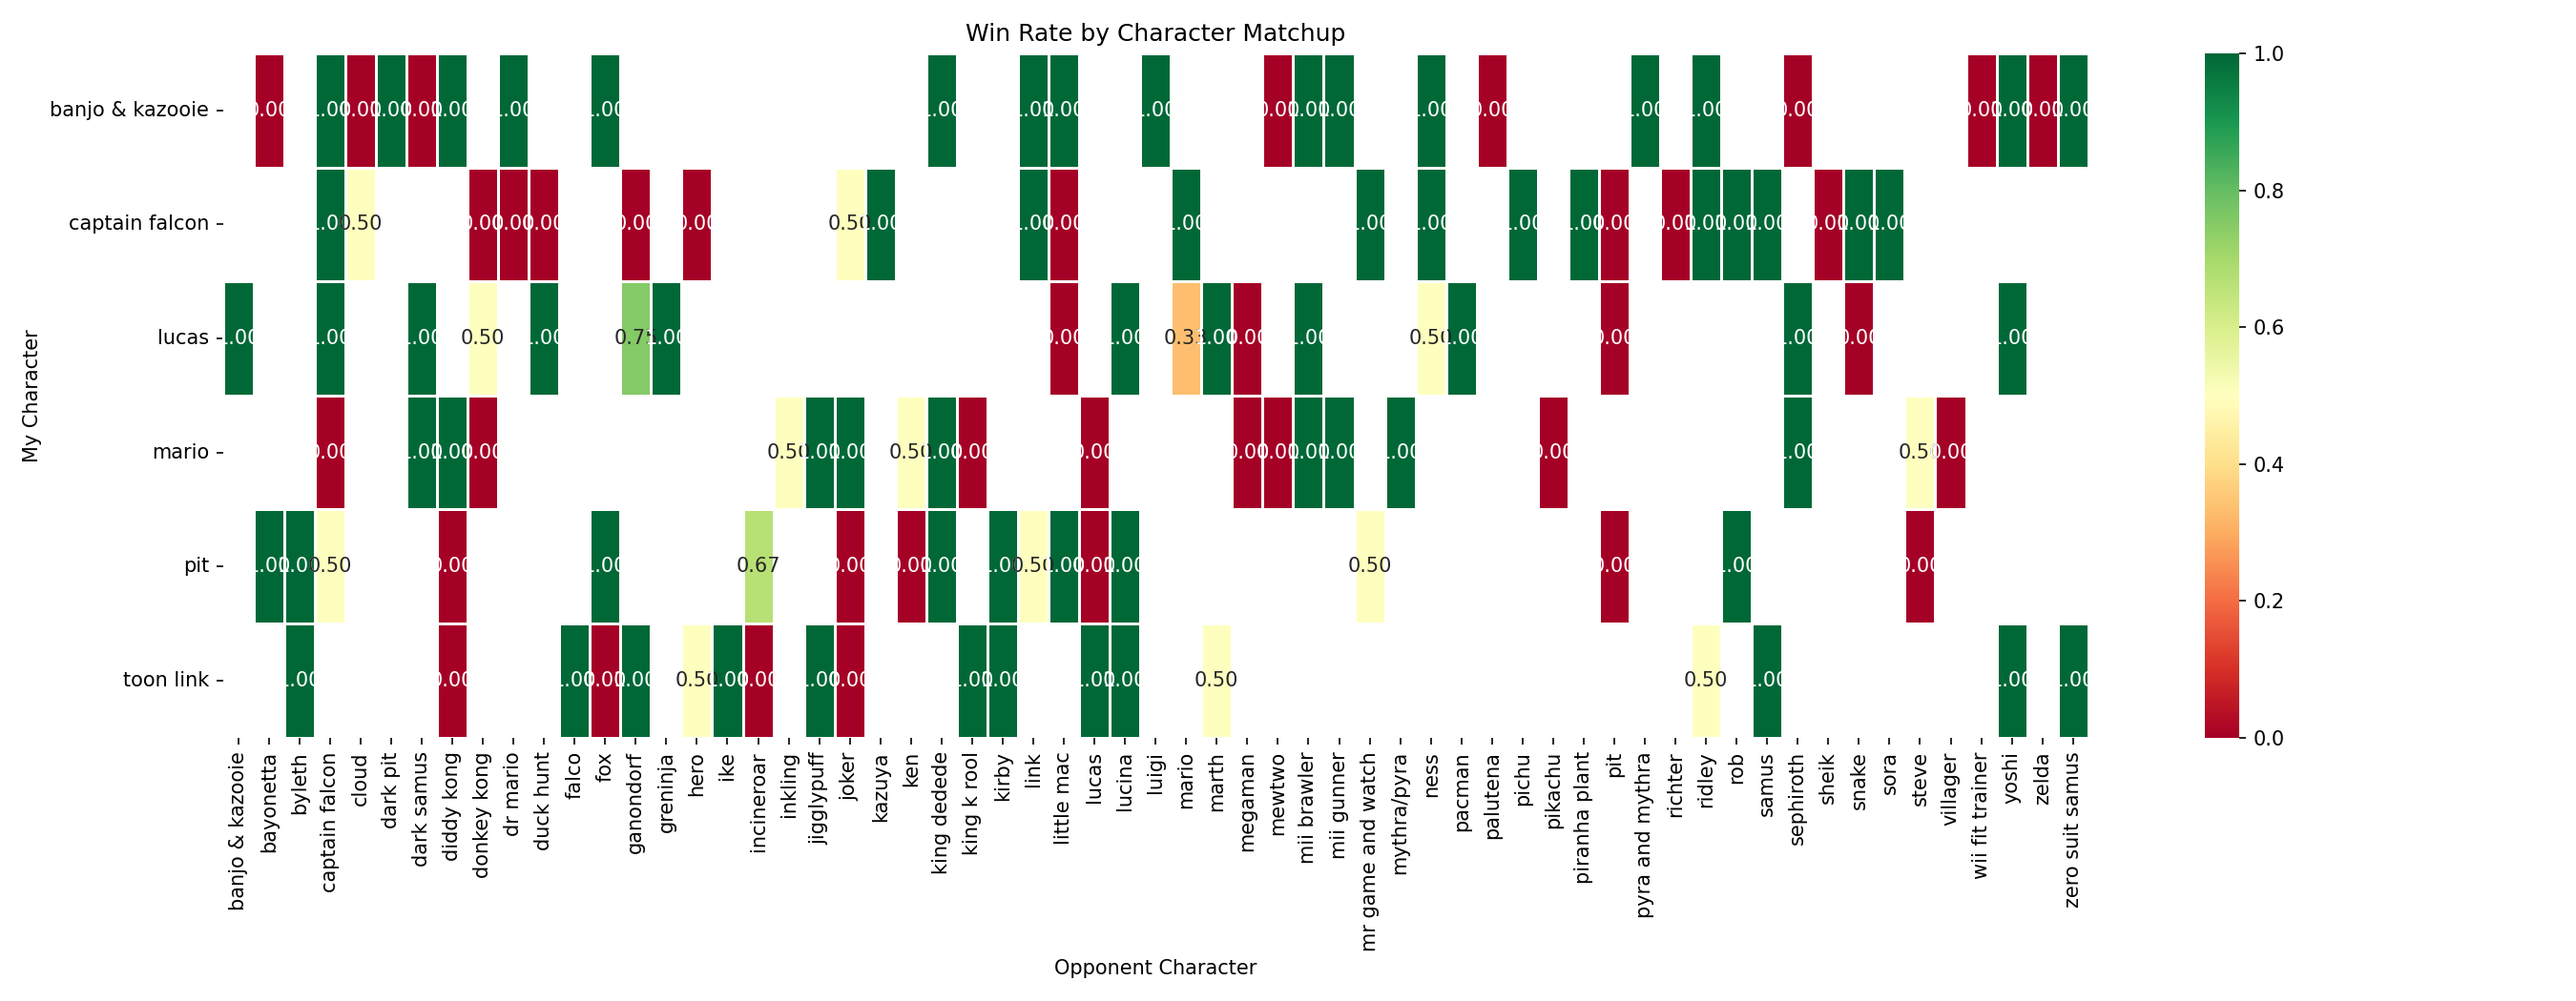
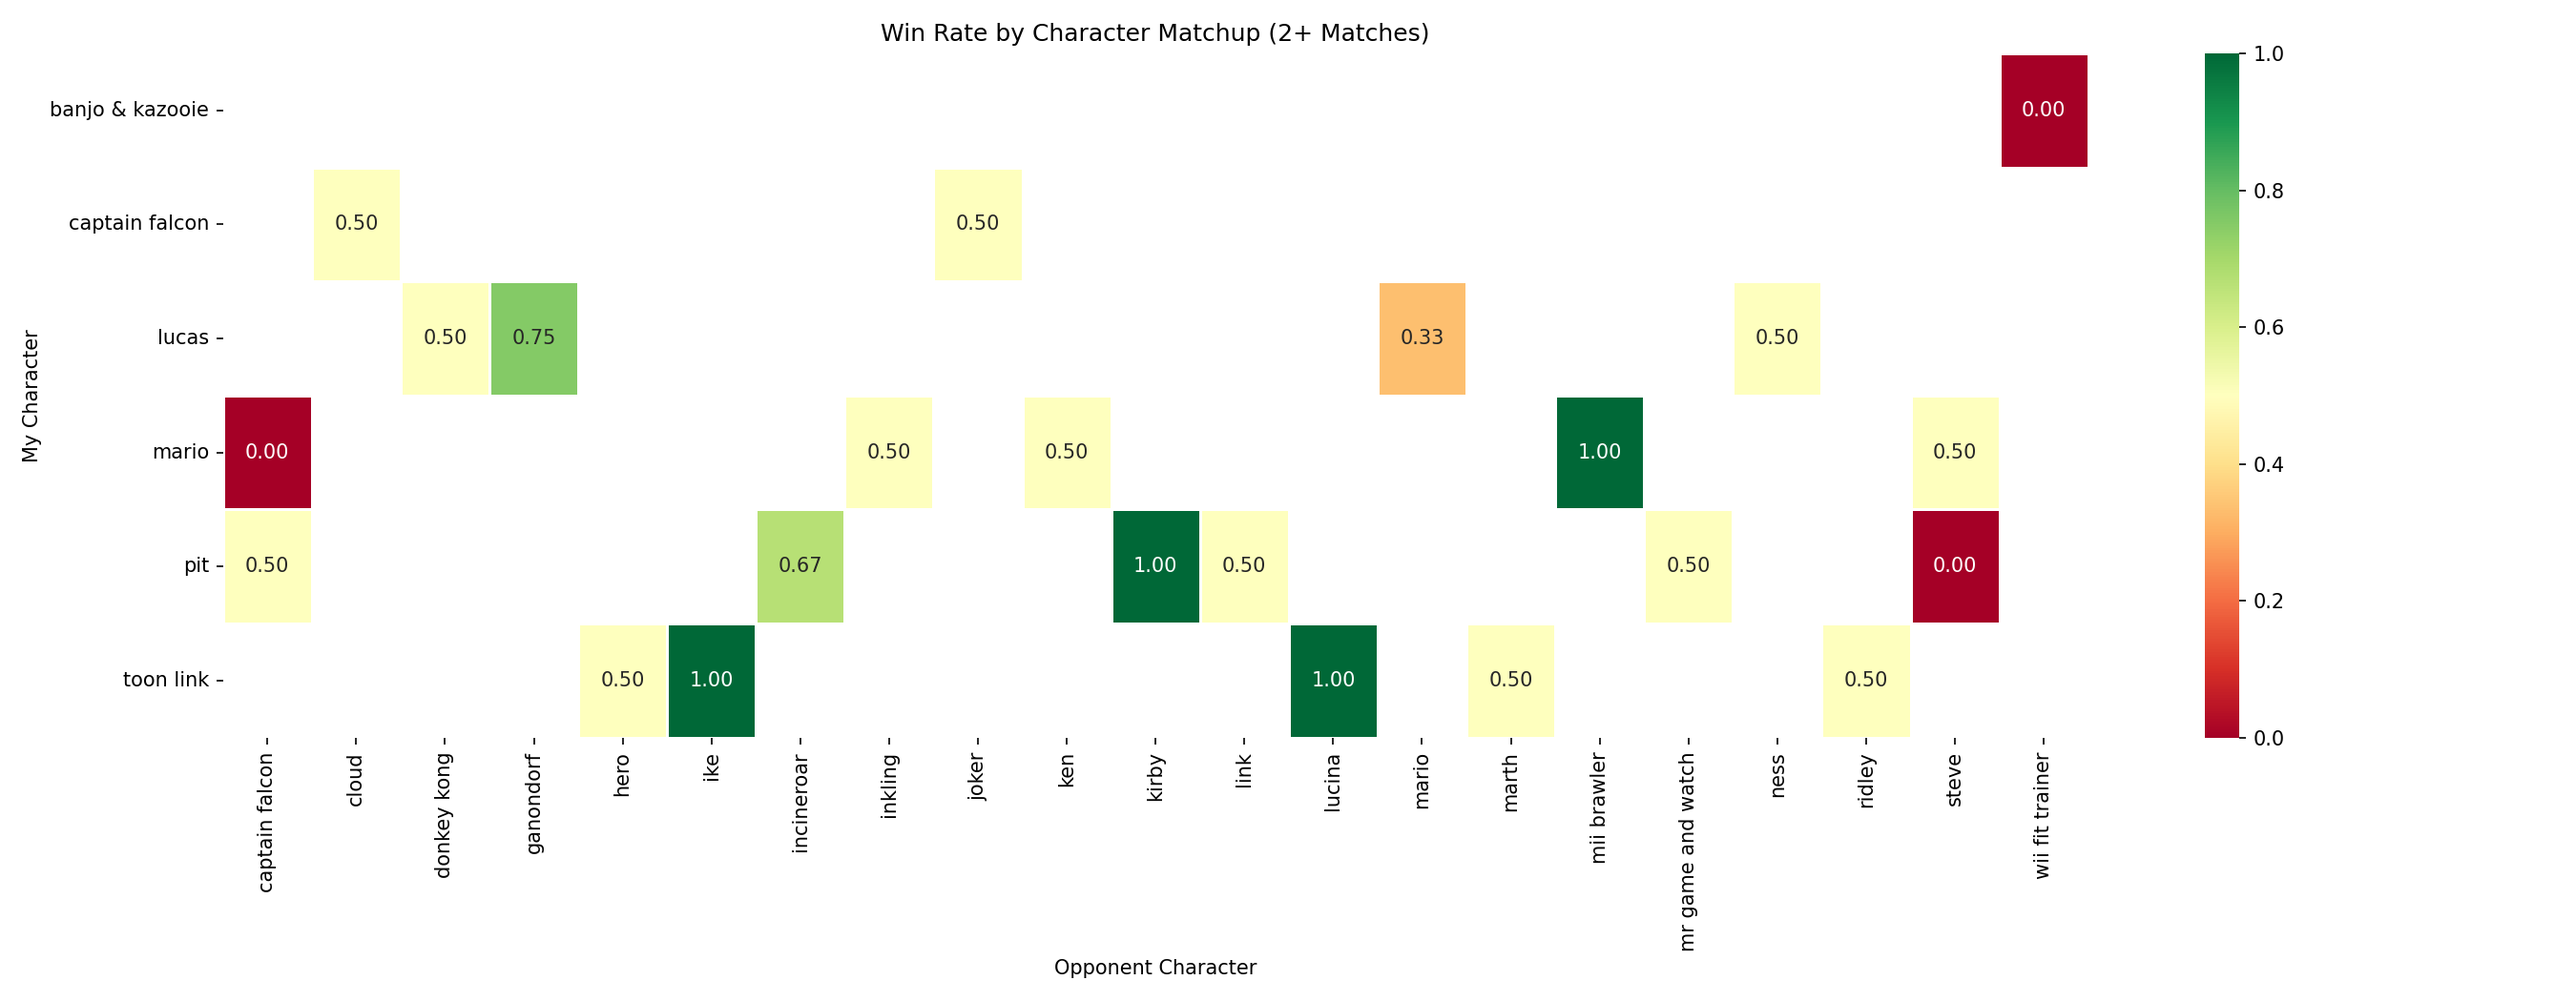
Fixed win rate heatmap

Changed region(s): [[0.0622, 0.0, 0.8089, 0.8838], [0.7778, 0.2743, 0.8089, 0.3962]]

diff --git a/eda.py b/eda.py
@@ -228,7 +228,23 @@ if "match_time_seconds" in df.columns:
     plt.close()
 
 # 8. Matchup Win Rate Heatmap
-matchup_win_rate = df.pivot_table(
+matchup_counts = (
+    df.groupby(["character", "opponent_character"])
+    .size()
+    .reset_index(name="matches")
+)
+
+valid_matchups = matchup_counts[
+    matchup_counts["matches"] >= 2
+]
+
+filtered_matchups = df.merge(
+    valid_matchups[["character", "opponent_character"]],
+    on=["character", "opponent_character"],
+    how="inner"
+)
+
+matchup_win_rate = filtered_matchups.pivot_table(
     index="character",
     columns="opponent_character",
     values="result",
@@ -247,7 +263,7 @@ sns.heatmap(
     linewidths=0.5
 )
 
-plt.title("Win Rate by Character Matchup")
+plt.title("Win Rate by Character Matchup (2+ Matches)")
 plt.xlabel("Opponent Character")
 plt.ylabel("My Character")
 
